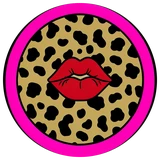
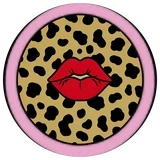
Вешалка goes powder pink so she no longer matches Шкет (#164)
* Вешалка turns lettuce green so she no longer matches Шкет

Her pink (#b5469f) sat right next to Шкет's (#d0528b) on the plates, the portraits and the
pick cards. She is now salad green (#a8d04a, like the lettuce on her fork); the pink rim of
her disc art is repainted to match with art/heroes/recolour_rim.py, the kiss stays pink.

Claude-Session: https://claude.ai/code/session_01FcoL2nx9QpvMXjKfqnfVwd

* Вешалка goes powder pink instead of salad green

Vladislav picked the powder pink (#e8a6c8, dark #8a3d66): she stays pink, but light enough
to tell apart from Шкет's hot pink. The rim of her disc art is repainted to match.

Claude-Session: https://claude.ai/code/session_01FcoL2nx9QpvMXjKfqnfVwd

---------

Changed region(s): [[0.0312, 0.0, 0.9688, 1.0], [0.4062, 0.4688, 0.4375, 0.5]]

diff --git a/src/data.ts b/src/data.ts
@@ -588,7 +588,7 @@ export const HEROES: HeroDef[] = [
     abMore: `Считается любой урон: диски, огонь, газ, молния, петарда, удар другого врага. Второй получает столько же сквозь броню, обратно урон не отражается. Попал в одного врага: наручники не защёлкнутся. Один из пары пал: наручники падают. Новая пара заменяет старую. Босса можно сковать с его свитой.`,
   },
   {
-    key: 'model', name: 'Вешалка', acc: 'Вешалку', dat: 'Вешалке', fem: true, col: '#b5469f', dk: '#5a1f4e', skin: '#c99272', hp: 18, r: 4, m: 1.5, e: 0.9, fr: 0.8, pw: 1.2,
+    key: 'model', name: 'Вешалка', acc: 'Вешалку', dat: 'Вешалке', fem: true, col: '#e8a6c8', dk: '#8a3d66', skin: '#c99272', hp: 18, r: 4, m: 1.5, e: 0.9, fr: 0.8, pw: 1.2,
     ab: 'Воздушный поцелуй', abTxt: `До конца хода её диск оставляет поцелуй: ${KISS_TURNS} хода враг бьёт ближайшего другого врага, а не героев.`, abCol: '#ff5a8a',
     abMore: 'Поцелованный враг бьёт своей атакой в полную силу, броня другого врага считается. Стрелок стреляет, если видит цель, а не дотянулся за ход, просто идёт к ней. Других врагов нет: стоит, вздыхает и героев не бьёт. Остальные враги могут выбрать поцелованного целью, как героя. Новый поцелуй начинает отсчёт заново. На боссов не действует.',
   },

diff --git a/art/heroes/recolour_rim.py b/art/heroes/recolour_rim.py
@@ -1,0 +1,33 @@
+"""Repaint the coloured rim of a hero's disc art to a new hero colour, keeping its shading and the rest of the picture.
+
+  python art/heroes/recolour_rim.py in.webp out.webp '#a8d04a' --hue 305-342
+
+Pixels whose hue is inside --hue (degrees) and that are saturated take the new colour's hue and saturation, scaled by
+how saturated and bright they were, so the rim's light edge and its ink-dark fringe stay as drawn.
+"""
+import argparse
+import colorsys
+
+from PIL import Image
+
+ap = argparse.ArgumentParser()
+ap.add_argument('src')
+ap.add_argument('dst')
+ap.add_argument('col')
+ap.add_argument('--hue', default='305-342', help='hue range of the old rim, degrees')
+ap.add_argument('--sat', type=float, default=0.35, help='least saturation of an old rim pixel')
+a = ap.parse_args()
+
+lo, hi = (float(x) / 360 for x in a.hue.split('-'))
+c = a.col.lstrip('#')
+th, ts, tv = colorsys.rgb_to_hsv(*(int(c[i:i + 2], 16) / 255 for i in (0, 2, 4)))
+im = Image.open(a.src).convert('RGBA')
+px = im.load()
+for y in range(im.height):
+    for x in range(im.width):
+        r, g, b, al = px[x, y]
+        h, s, v = colorsys.rgb_to_hsv(r / 255, g / 255, b / 255)
+        if al and lo <= h <= hi and s >= a.sat:
+            nr, ng, nb = colorsys.hsv_to_rgb(th, ts * s, tv * v)
+            px[x, y] = (round(nr * 255), round(ng * 255), round(nb * 255), al)
+im.save(a.dst, quality=92, method=6) if a.dst.endswith('.webp') else im.save(a.dst)
